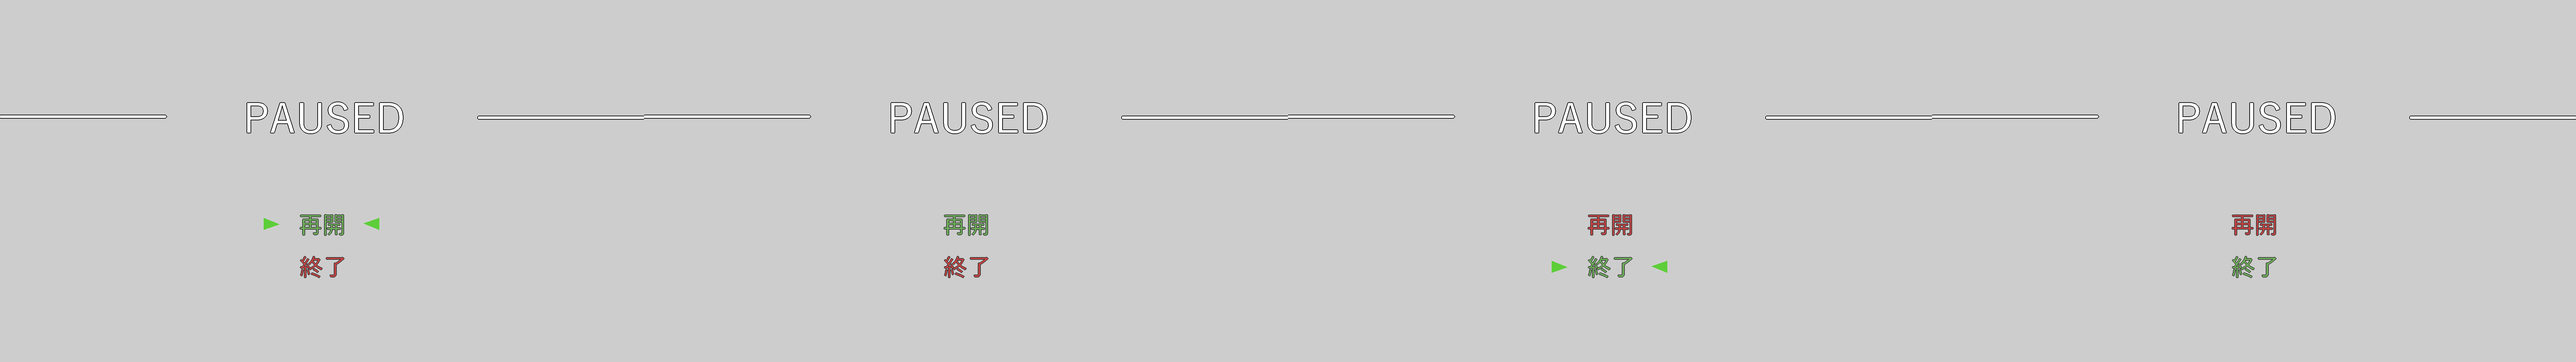
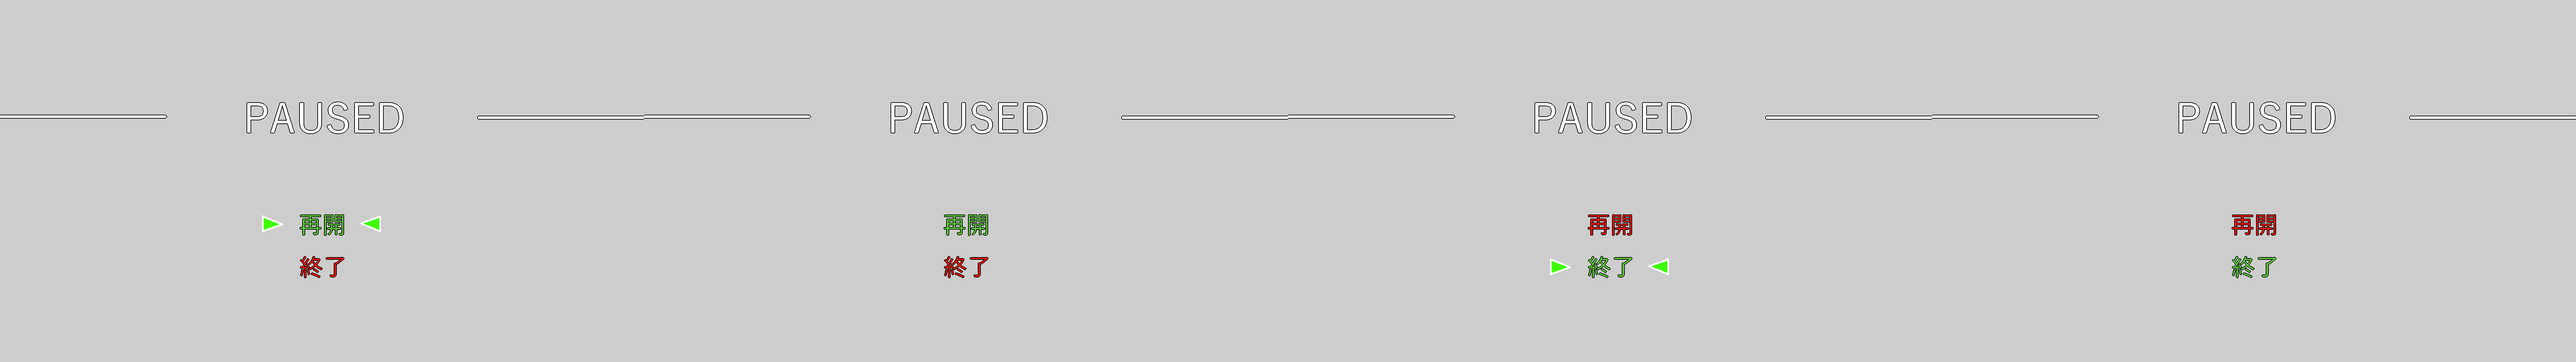
Added pause meny

diff --git a/Pause.cpp b/Pause.cpp
@@ -1,0 +1,174 @@
+#include "Pause.h"
+#include "Novice.h"
+#include "Input.h"
+
+void Pause::Initialize()
+{
+	pause1Handle_ = Novice::LoadTexture("./Resources/Pause/pauseText1.png");
+	pause2Handle_ = Novice::LoadTexture("./Resources/Pause/pauseText2.png");
+	pauseTextOnlyHandle_ = Novice::LoadTexture("./Resources/Pause/pauseTextOnly1.png");
+}
+
+void Pause::Update()
+{
+	if (isPaused_) 
+	{
+		if (!isOnMeny2) 
+		{
+			pauseStatus_ = PauseStatus::PauseMenu1;
+		}
+		else 
+		{
+			pauseStatus_ = PauseStatus::PauseMenu2;
+		}
+		if (pressTimer <= 7) 
+		{
+			pressTimer++;
+		}
+		if (Input::GetInstance()->TriggerKey(DIK_ESCAPE))
+		{
+			isPaused_ = false;
+			isOnMeny2 = false;
+			hasPressedDown = false;
+		}
+	}
+	else 
+	{
+		pressTimer = 0;
+	}
+	switch (pauseStatus_)
+	{
+	case PauseStatus::None:
+		break;
+	case PauseStatus::PauseMenu1:
+
+		PauseAnimation();
+
+		PauseMenu1Menuing();
+
+		break;
+	case PauseStatus::PauseMenu2:
+
+		PauseAnimation();
+		
+		PauseMenu2Menuing();
+
+		break;
+	default:
+		break;
+	}
+	
+
+	
+}
+
+void Pause::PauseAnimation()
+{
+	animationTimer++;
+
+	if (animationTimer > maxFrames)
+	{
+		animationTimer = 0;
+	}
+	if (!hasPressedDown)
+	{
+		if (animationTimer < 30)
+		{
+			pos_.x = 0;
+
+		}
+		else if (animationTimer < 60)
+		{
+			pos_.x = 1920;
+
+		}
+	}
+	else
+	{
+		if (animationTimer < 30)
+		{
+			pos_.x = 3840;
+
+		}
+		else if (animationTimer < 60)
+		{
+			pos_.x = 5760;
+
+		}
+	}
+
+}
+
+void Pause::PauseMenu1Menuing()
+{
+	if ((Input::GetInstance()->TriggerKey(DIK_DOWN) || Input::GetInstance()->TriggerKey(DIK_S) || Input::GetInstance()->TriggerKey(DIK_UP) || Input::GetInstance()->TriggerKey(DIK_W)) && !hasPressedDown && pressTimer >= 5)
+	{
+		hasPressedDown = true;
+		pressTimer = 0;
+	}
+
+	if ((Input::GetInstance()->TriggerKey(DIK_DOWN) || Input::GetInstance()->TriggerKey(DIK_S) || Input::GetInstance()->TriggerKey(DIK_UP) || Input::GetInstance()->TriggerKey(DIK_W)) && hasPressedDown && pressTimer >= 5)
+	{
+		hasPressedDown = false;
+		pressTimer = 0;
+	}
+
+
+	if (Input::GetInstance()->TriggerKey(DIK_SPACE) && pressTimer >= 5 && !hasPressedDown)
+	{
+		pauseStatus_ = PauseStatus::None;
+		isPaused_ = false;
+
+	}
+
+	if (Input::GetInstance()->TriggerKey(DIK_SPACE) && hasPressedDown)
+	{
+		isOnMeny2 = true;
+		hasPressedDown = false;
+	}
+}
+
+void Pause::PauseMenu2Menuing()
+{
+	if ((Input::GetInstance()->TriggerKey(DIK_DOWN) || Input::GetInstance()->TriggerKey(DIK_S) || Input::GetInstance()->TriggerKey(DIK_UP) || Input::GetInstance()->TriggerKey(DIK_W)) && !hasPressedDown && pressTimer >= 5)
+	{
+		hasPressedDown = true;
+		pressTimer = 0;
+	}
+
+	if ((Input::GetInstance()->TriggerKey(DIK_DOWN) || Input::GetInstance()->TriggerKey(DIK_S) || Input::GetInstance()->TriggerKey(DIK_UP) || Input::GetInstance()->TriggerKey(DIK_W)) && hasPressedDown && pressTimer >= 5)
+	{
+		hasPressedDown = false;
+		pressTimer = 0;
+	}
+	if (Input::GetInstance()->TriggerKey(DIK_SPACE) && !hasPressedDown)
+	{
+		isOnMeny2 = false;
+		hasPressedDown = false;
+	}
+	if (Input::GetInstance()->TriggerKey(DIK_SPACE) && hasPressedDown)
+	{
+		closeGame = true;
+	}
+
+}
+
+void Pause::Draw()
+{
+	switch (pauseStatus_)
+	{
+	case PauseStatus::None:
+		break;
+	case PauseStatus::PauseMenu1:
+		Novice::DrawSpriteRect(0, 0, (int)pos_.x, (int)pos_.y, 1920, 1080, pause1Handle_, scale.x, scale.y, 0.0f, WHITE);
+		break;
+	case PauseStatus::PauseMenu2:
+		Novice::DrawSpriteRect(0, 0, (int)pos_.x, (int)pos_.y, 1920, 1080, pause2Handle_, scale.x, scale.y, 0.0f, WHITE);
+
+		break;
+	default:
+		break;
+	}
+	//Novice::DrawQuad()
+	//Novice::DrawSprite((int)pos_.x, (int)pos_.y, pause1Handle_, scale.x, scale.y, 0.0f, WHITE);
+}

diff --git a/GameManager.cpp b/GameManager.cpp
@@ -10,6 +10,8 @@ GameManager::GameManager()
 	currentSceneNo_ = TITLE;
 	prevSceneNo_ = TITLE;
 	sceneArr_[currentSceneNo_]->Initialize();
+	pause_ = new Pause();
+	pause_->Initialize();
 
 }
 
@@ -29,10 +31,39 @@ int GameManager::Run()
 		if (prevSceneNo_ != currentSceneNo_) {
 			sceneArr_[currentSceneNo_]->Initialize();
 		}
+		if (!pause_->GetIsPaused()) 
+		{
+			sceneArr_[currentSceneNo_]->Update();
 
-		sceneArr_[currentSceneNo_]->Update();
-
+			
+		}
 		sceneArr_[currentSceneNo_]->Draw();
+
+		 if(pause_->GetIsPaused())
+		{
+			pause_->Update();
+
+			pause_->Draw();
+		}
+		
+		
+
+		if (Input::GetInstance()->TriggerKey(DIK_ESCAPE) && !isPaused)
+		{
+			pause_->SetIsPaused(true);
+			isPaused = true;
+			pauseTimer = 1;
+		}
+
+		if (!pause_->GetIsPaused() && pauseTimer > 0)
+		{
+			pauseTimer++;
+		}
+
+		if (pauseTimer > 5) 
+		{
+			isPaused = false;
+		}
 
 		if (Input::GetInstance()->TriggerKey(DIK_F)) {
 			isFullScreen ^= true;
@@ -46,7 +77,7 @@ int GameManager::Run()
 
 		Novice::EndFrame();
 
-		if (Input::GetInstance()->TriggerKey(DIK_ESCAPE)) {
+		if (pause_->GetCloseGame()) {
 			break;
 		}
 	}

diff --git a/Pause.h b/Pause.h
@@ -1,0 +1,54 @@
+#pragma once
+#include "MathFunction.h"
+
+enum class PauseStatus 
+{
+	None,
+	PauseMenu1,
+	PauseMenu2,
+
+};
+
+class Pause
+{
+public:
+
+	void Initialize();
+
+	void Update();
+
+	void PauseAnimation();
+
+	void PauseMenu1Menuing();
+
+	void PauseMenu2Menuing();
+
+	void Draw();
+
+	bool GetIsPaused() { return isPaused_; };
+
+	bool GetCloseGame() { return closeGame; };
+
+	void SetIsPaused(bool isPaused) { isPaused_ = isPaused; };
+
+private:
+
+	
+
+	int pause1Handle_;
+	int pause2Handle_;
+	int pauseTextOnlyHandle_;
+	Vector2 pos_ = { 0,0 };
+	Vector2 scale = { 0.25,1 };
+	bool hasPressedDown = false;
+	int animationTimer = 0;
+	int maxFrames = 60;
+	int pressTimer = 0;
+	bool isPaused_ = false;
+	bool isOnMeny2 = false;
+	bool closeGame = false;
+	PauseStatus pauseStatus_ = PauseStatus::None;
+
+
+};
+

diff --git a/GameManager.h b/GameManager.h
@@ -6,6 +6,7 @@
 #include "ClearScene.h"
 #include "Novice.h"
 #include "Input.h"
+#include "Pause.h"
 
 class GameManager
 {
@@ -21,7 +22,9 @@ private:
 public:
 	GameManager();
 	~GameManager();
-
+	Pause* pause_ = nullptr;
 	int Run();
+	int pauseTimer = 0;
+	bool isPaused = false;
 };
 
